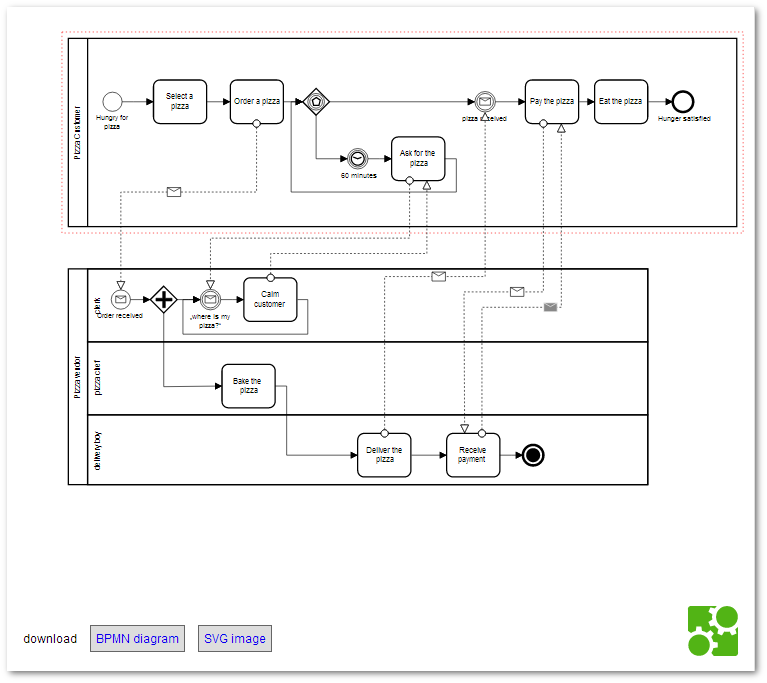
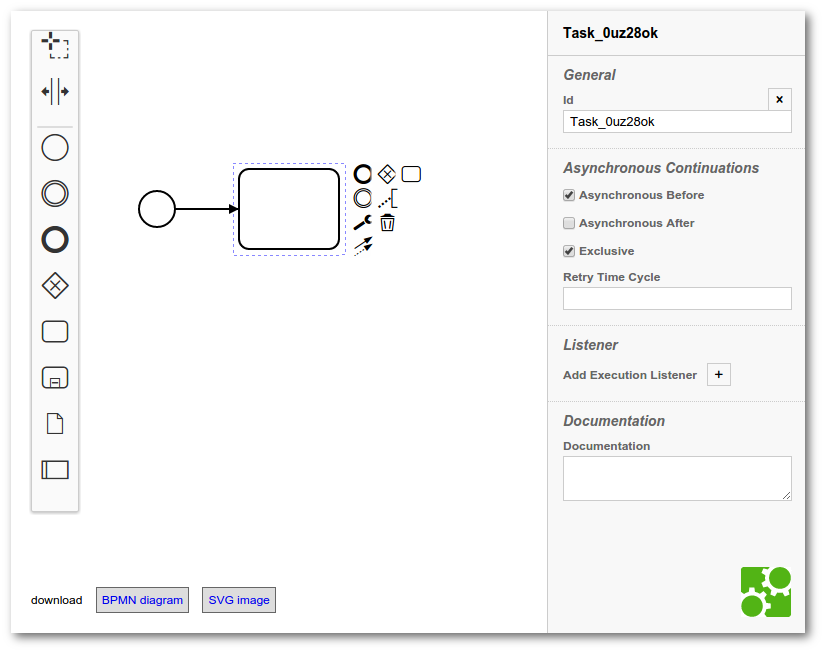
chore(properties-panel): update to released version

Changed region(s): [[0.0, 0.0, 0.9896, 1.0], [0.03, 0.7669, 0.09, 0.7975], [0.8396, 0.6748, 0.8696, 0.7055]]

diff --git a/properties-panel/app/index.js b/properties-panel/app/index.js
@@ -6,23 +6,25 @@ var $ = require('jquery'),
     BpmnModeler = require('bpmn-js/lib/Modeler');
 
 var propertiesPanelModule = require('bpmn-js-properties-panel'),
-    camundaModdlePackage = require('bpmn-js-properties-panel/lib/provider/camunda/camunda-moddle');
+    propertiesProviderModule = require('bpmn-js-properties-panel/lib/provider/camunda'),
+    camundaModdleDescriptor = require('camunda-bpmn-moddle/resources/camunda');
 
 var container = $('#js-drop-zone');
 
 var canvas = $('#js-canvas');
 
-var propertiesPanelConfig = {
-  'config.propertiesPanel': ['value', { parent: $('#js-properties-panel') }]
-};
-
-var renderer = new BpmnModeler({
+var bpmnModeler = new BpmnModeler({
   container: canvas,
+  propertiesPanel: {
+    parent: '#js-properties-panel'
+  },
   additionalModules: [
     propertiesPanelModule,
-    propertiesPanelConfig
+    propertiesProviderModule
   ],
-  moddleExtensions: {camunda: camundaModdlePackage}
+  moddleExtensions: {
+    camunda: camundaModdleDescriptor
+  }
 });
 
 var newDiagramXML = fs.readFileSync(__dirname + '/../resources/newDiagram.bpmn', 'utf-8');
@@ -33,7 +35,7 @@ function createNewDiagram() {
 
 function openDiagram(xml) {
 
-  renderer.importXML(xml, function(err) {
+  bpmnModeler.importXML(xml, function(err) {
 
     if (err) {
       container
@@ -54,12 +56,12 @@ function openDiagram(xml) {
 }
 
 function saveSVG(done) {
-  renderer.saveSVG(done);
+  bpmnModeler.saveSVG(done);
 }
 
 function saveDiagram(done) {
 
-  renderer.saveXML({ format: true }, function(err, xml) {
+  bpmnModeler.saveXML({ format: true }, function(err, xml) {
     done(err, xml);
   });
 }
@@ -143,9 +145,9 @@ $(document).on('ready', function() {
     }
   }
 
-  var _ = require('lodash');
+  var debounce = require('lodash/function/debounce');
 
-  var exportArtifacts = _.debounce(function() {
+  var exportArtifacts = debounce(function() {
 
     saveSVG(function(err, svg) {
       setEncoded(downloadSvgLink, 'diagram.svg', err ? null : svg);
@@ -156,5 +158,5 @@ $(document).on('ready', function() {
     });
   }, 500);
 
-  renderer.on('commandStack.changed', exportArtifacts);
+  bpmnModeler.on('commandStack.changed', exportArtifacts);
 });

diff --git a/properties-panel/Gruntfile.js b/properties-panel/Gruntfile.js
@@ -130,7 +130,6 @@ module.exports = function(grunt) {
         },
         files: [
           '<%= config.dist %>/**/*.css'
-          // '<%= config.dist %>/**/*.{html,js,css}'
         ],
         tasks: []
       }
